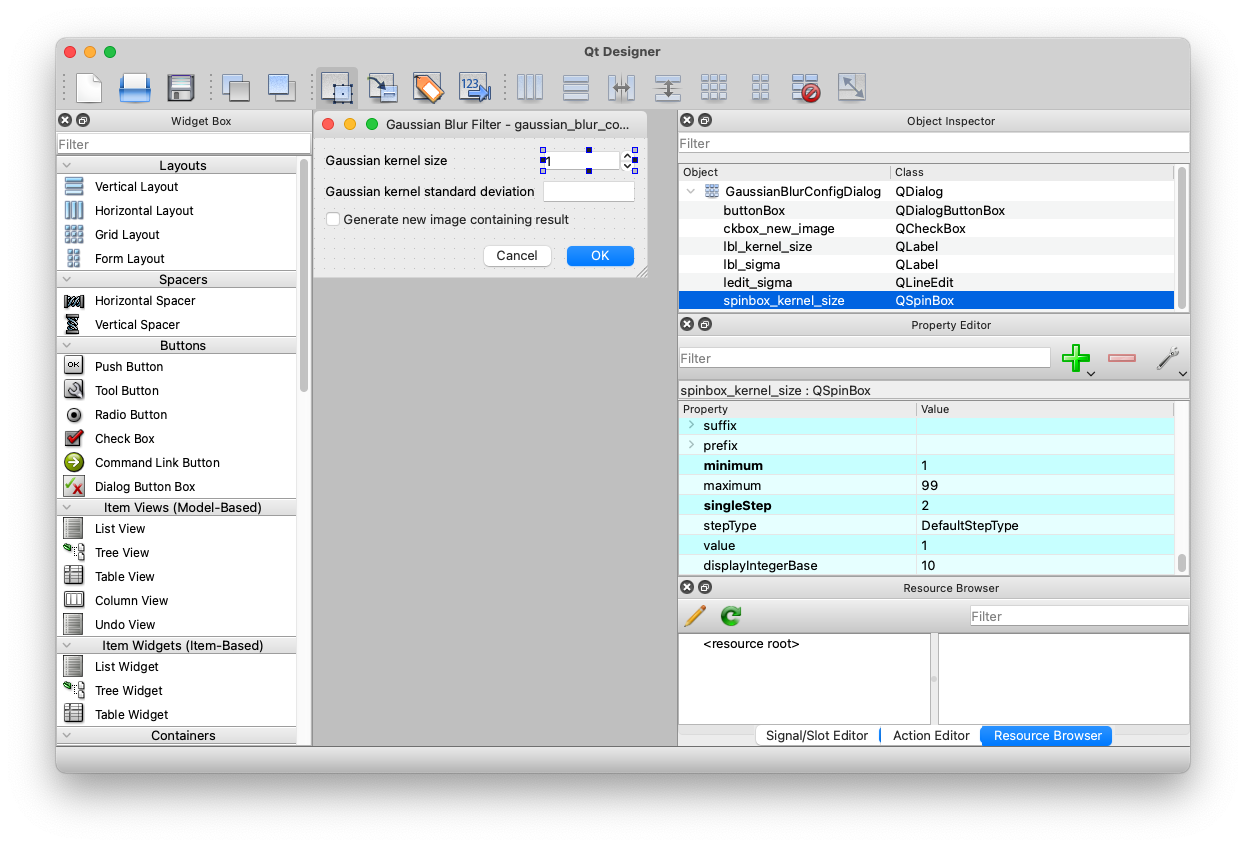
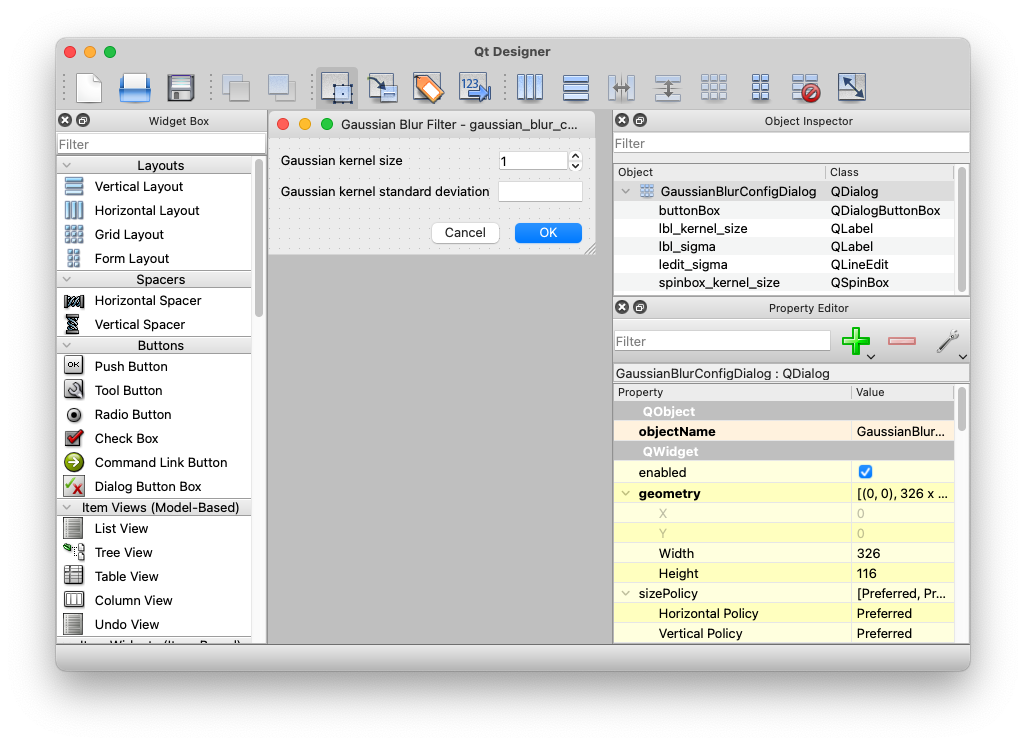
Add features to WISERControl, RasterDataSet classes
Added functionality to WISERControl so that plugins can make datasets
from numpy arrays, and add datasets to what WISER is displaying.  This
was pleasantly straightforward.

Started some updates to the RasterDataSet and GDALRasterDataSet classes
to handle metadata better - then realized that the metadata support will
really need to be revised to support mutable datasets.  So, that will be
in future work.

Since it's very difficult to mutate a dataset in place, I updated the
plugin documentation so that the example doesn't include this kind of
approach.  Now it always generates a new image after the Gaussian blur
has been applied.

diff --git a/src/wiser/raster/dataset.py b/src/wiser/raster/dataset.py
@@ -1,3 +1,6 @@
+import abc
+from abc import abstractmethod
+
 from typing import Optional, Union
 
 import numpy as np
@@ -29,7 +32,7 @@ class BandStats:
         return f'BandStats[index={self._band_index}, min={self._min_value}, max={self._max_value}]'
 
 
-class RasterDataSet:
+class RasterDataSet(abc.ABC):
     '''
     A 2D raster data-set for imaging spectroscopy, possibly with many bands of
     data for each pixel.
@@ -51,6 +54,7 @@ class RasterDataSet:
         self._id = id
 
 
+    @abstractmethod
     def get_description(self):
         '''
         Returns a description of the dataset that might be specified in the
@@ -59,6 +63,7 @@ class RasterDataSet:
         '''
         pass
 
+    @abstractmethod
     def get_filetype(self):
         '''
         Returns a string describing the type of raster data file that backs this
@@ -67,6 +72,7 @@ class RasterDataSet:
         '''
         pass
 
+    @abstractmethod
     def get_filepaths(self):
         '''
         Returns the paths and filenames of all files associated with this raster
@@ -75,18 +81,22 @@ class RasterDataSet:
         '''
         pass
 
+    @abstractmethod
     def get_width(self):
         ''' Returns the number of pixels per row in the raster data. '''
         pass
 
+    @abstractmethod
     def get_height(self):
         ''' Returns the number of rows of data in the raster data. '''
         pass
 
+    @abstractmethod
     def num_bands(self):
         ''' Returns the number of spectral bands in the raster data. '''
         pass
 
+    @abstractmethod
     def band_list(self):
         '''
         Returns a description of all bands in the data set.  The description is
@@ -122,6 +132,7 @@ class RasterDataSet:
 
         return True
 
+    @abstractmethod
     def default_display_bands(self):
         '''
         Returns a list of integer indexes, specifying the default bands for
@@ -133,6 +144,7 @@ class RasterDataSet:
         '''
         pass
 
+    @abstractmethod
     def get_data_ignore_value(self) -> Optional[Union[int, float]]:
         '''
         Returns the number that indicates a value to be ignored in the dataset.
@@ -140,6 +152,7 @@ class RasterDataSet:
         '''
         pass
 
+    @abstractmethod
     def get_bad_bands(self):
         '''
         Returns a "bad band list" as a list of 0 or 1 integer values, with the
@@ -149,6 +162,7 @@ class RasterDataSet:
         '''
         pass
 
+    @abstractmethod
     def get_image_data(self, filter_data_ignore_value=True):
         '''
         Returns a numpy 3D array of the entire image cube.
@@ -163,6 +177,7 @@ class RasterDataSet:
         '''
         pass
 
+    @abstractmethod
     def get_band_data(self, band_index, filter_data_ignore_value=True):
         '''
         Returns a numpy 2D array of the specified band's data.  The first band
@@ -178,13 +193,15 @@ class RasterDataSet:
         '''
         pass
 
+    @abstractmethod
     def get_band_stats(self, band_index):
         '''
         Returns statistics of the specified band's data, wrapped in a
-        class:BandStats object.
+        :class:`BandStats` object.
         '''
         pass
 
+    @abstractmethod
     def get_all_bands_at(self, x, y, filter_bad_values=True):
         '''
         Returns a numpy 1D array of the values of all bands at the specified
@@ -194,6 +211,10 @@ class RasterDataSet:
         the metadata will be set to NaN, and bands with the "data ignore value"
         will also be set to NaN.
         '''
+        pass
+
+    @abstractmethod
+    def copy_metadata_from(self, dataset: 'RasterDataSet') -> None:
         pass
 
 
@@ -240,12 +261,13 @@ class RasterDataBand:
         return self._dataset.get_band_stats(self._band_index)
 
 
-class RasterDataLoader:
+class RasterDataLoader(abc.ABC):
     '''
     A loader for loading 2D raster data-sets from some source, using some
     mechanism for reading the data.
     '''
 
+    @abstractmethod
     def load(self, path):
         '''
         Load a raster data-set from the specified path.  Returns a
@@ -253,6 +275,7 @@ class RasterDataLoader:
         '''
         pass
 
+    @abstractmethod
     def dataset_from_numpy_array(self, arr: np.ndarray) -> RasterDataSet:
         '''
         Given a NumPy ndarray, this function returns a class:RasterDataSet
@@ -264,6 +287,7 @@ class RasterDataLoader:
         '''
         pass
 
+    @abstractmethod
     def spectrum_from_numpy_array(self, arr: np.ndarray): # -> Spectrum:
         '''
         Given a NumPy ndarray, this function returns a class:Spectrum object

diff --git a/src/wiser/plugins/wiser_control.py b/src/wiser/plugins/wiser_control.py
@@ -1,3 +1,7 @@
+from wiser.raster import RasterDataSet
+
+import numpy as np
+
 from typing import TYPE_CHECKING
 if TYPE_CHECKING:
     from wiser.gui.app_state import ApplicationState
@@ -10,7 +14,31 @@ class WISERControl:
     allowing plugins to interact with the WISER application programmatically.
     '''
 
+
     def __init__(self, app_state: 'ApplicationState'):
         # Try to keep this private, so that plugin writers and others know they
         # really shouldn't muck around with it!
         self.__app_state: 'ApplicationState' = app_state
+
+
+    def add_dataset(self, dataset: RasterDataSet) -> None:
+        '''
+        Add the specified ``RasterDataSet`` object to the data-sets being
+        displayed by WISER.
+
+        The dataset itself will be assigned a new unique ID by WISER, accessible
+        via the :method:`RasterDataSet.get_id` method.
+        '''
+        self.__app_state.add_dataset(dataset)
+
+
+    def dataset_from_numpy_array(self, arr: np.ndarray) -> RasterDataSet:
+        '''
+        Convert a NumPy array into a ``RasterDataSet`` object.  This operation
+        doesn't cause WISER to display the dataset object; to do so, call the
+        :method:`add_dataset` method with the new object.
+
+        Note that the returned ``RasterDataSet`` will not have any metadata for
+        its bands.
+        '''
+        return self.__app_state.get_loader().dataset_from_numpy_array(arr)

diff --git a/src/wiser/raster/gdal_dataset.py b/src/wiser/raster/gdal_dataset.py
@@ -369,6 +369,16 @@ class GDALRasterDataSet(RasterDataSet):
         return np_array
 
 
+    def copy_metadata_from(self, dataset: RasterDataSet) -> None:
+
+        if self.num_bands() != dataset.num_bands():
+            raise ValueError('Cannot copy metadata; this dataset has ' +
+                f'{self.num_bands()} bands, other dataset has ' +
+                f'{dataset.num_bands()} bands')
+
+        # TODO(donnie): FINISH
+
+
 class GDALRasterDataLoader(RasterDataLoader):
     '''
     A loader for loading 2D raster data-sets from the local filesystem, using

diff --git a/doc/sphinx-source/ui_plugins.rst b/doc/sphinx-source/ui_plugins.rst
@@ -23,7 +23,7 @@ more sophisticated user interfaces, as it encourages an object-oriented approach
 to the code layout, and it makes it easier to access the widgets that comprise
 the GUI.
 
-Here is an example configuration UI for a Gaussian Blur plugin, which uses
+Here is an example configuration UI for a Gaussian blur plugin, which uses
 OpenCV to perform the blurring operation.
 
 .. image:: images/qt_designer_gaussian_blur.png
@@ -93,16 +93,11 @@ the UI widgets within the dialog.  The code continues:
             ledit.setValidator(QDoubleValidator(0.0, 1000000.0, 6))
             ledit.setText('0')
 
-            # We want the blur operation to create a new image by default.
-            ckbox = dialog.findChild(QCheckBox, 'ckbox_new_image')
-            ckbox.setChecked(True)
-
             # Show the dialog!
             if dialog.exec() == QDialog.Accepted:
                 # Pull the values out of the UI widgets.
                 kernel_size = sbox.value()
                 sigma = float(ledit.text())
-                new_image = ckbox.isChecked()
 
                 # Compute the Gaussian blur based on the parameters
                 ...
@@ -161,8 +156,6 @@ needed.
             self._ui.ledit_sigma.setValidator(QDoubleValidator(0.0, 1000000.0, 6))
             self._ui.ledit_sigma.setText('0')
 
-            self._ui.ckbox_new_image.setChecked(True)
-
         def _on_kernel_size_changed(self) -> None:
         # The value cannot be even.
         value = self._ui.spinbox_kernel_size.value()
@@ -174,9 +167,6 @@ needed.
 
         def get_sigma(self) -> float:
             return float(self._ui.ledit_sigma.text())
-
-        def make_new_image(self) -> bool:
-            return self._ui.ckbox_new_image.isChecked()
 
 It should be obvious that this approach is completely equivalent to the approach
 of using ``QUiLoader``.  However, this approach is more desirable for complex
@@ -198,7 +188,6 @@ very simple:
             if dialog.exec() == QDialog.Accepted:
                 kernel_size = dialog.get_kernel_size()
                 sigma = dialog.get_sigma()
-                new_image = dialog.make_new_image()
 
                 # Compute the Gaussian blur based on the parameters
                 ...
